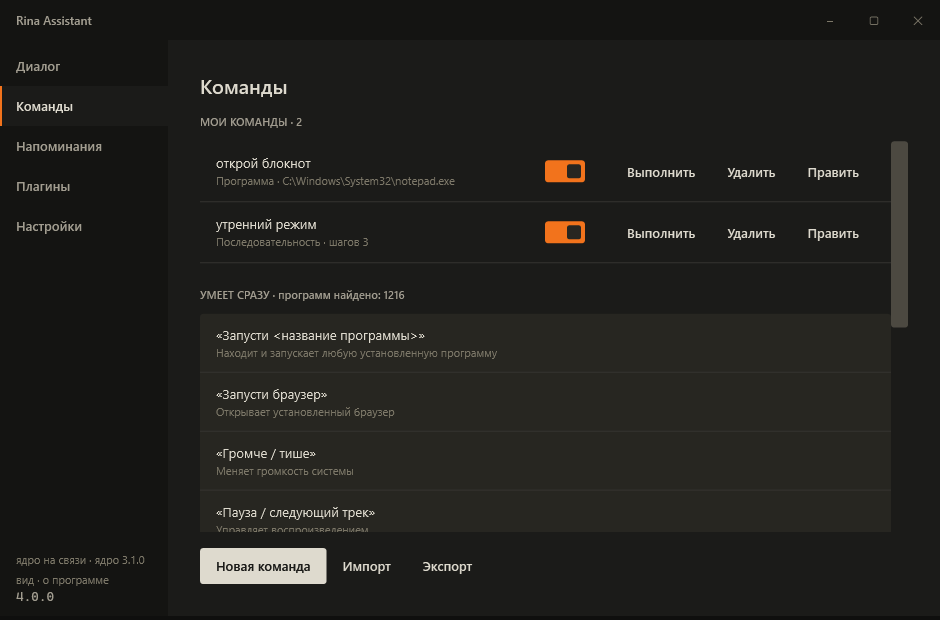
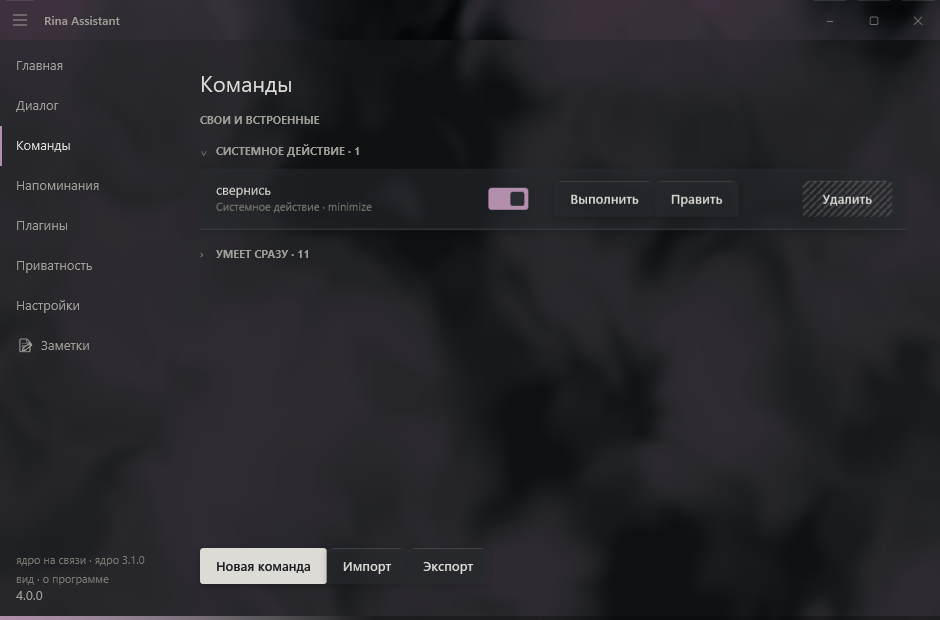
C04: README как продуктовая страница (без видео)
Первый экран перестроен под того, кто решает, стоит ли пробовать: фраза о
ценности, приватность рядом с ней, снимок главной, установка в пять минут
и три фразы, которые можно сказать сразу. Техническая глубина осталась —
она ниже, а не первой.

Видео не сделано: записать его я не могу, и делать вид, что пункт закрыт
целиком, не стану. В плане стоит «частично».

README успел прогнить, и это главное, что тут выяснилось. «Одиннадцать
системных действий» при шестнадцати, «две отделки» при трёх, «четыре
поверхности, семнадцать угроз» при шести и двадцати двух, «39 проверок»
при шестидесяти пяти. Снимки сняты 8 сентября — до переделки интерфейса,
то есть показывали программу, которой больше нет. Ничего из этого никто не
заметил, потому что никто и не смотрел.

Снимки пересняты из нынешней сборки, включая страницу приватности и
главную, которых на странице не было вовсе.

Числа, которые называет страница, теперь сверяются. Продуктовую страницу
читает тот, кто решает, попробовать ли; число в ней — та часть, которой
верят не проверяя, и ровно поэтому она гниёт. Сверяются отделки,
системные действия, виды шага, поверхности и угрозы, число проверок в
наборе (у самого набора и спрашивается) и наличие каждого снимка.

Сломано в обе стороны: README отстал от числа действий; в системе стало на
действие больше, а README не знает; снимок пропал.

Регресс: 65 проверок, 0 провалов.

diff --git a/tools/check_docs.py b/tools/check_docs.py
@@ -255,6 +255,89 @@ check("старых скриншотов в README нет",
       not re.search(r"docs/0\d-\w+\.png", readme),
       "| это интерфейс, которого больше не существует")
 
+# ---------------------------------------------------------------------------
+# The numbers the README quotes (`4.0b-C04`)
+# ---------------------------------------------------------------------------
+#
+# A product page is read by somebody deciding whether to try the thing, and
+# a number in it is the part they believe without checking. Which is exactly
+# how it rots: the code moves, the sentence stays, and the sentence is what
+# the reader takes away.
+#
+# It had rotted. "Eleven system actions" when there were sixteen, "two
+# finishes" when there were three, "four surfaces, seventeen threats" when
+# there were six and twenty-two, "39 checks" when there were sixty-five.
+# None of it was noticed by anybody, because nothing was looking.
+import json
+import subprocess
+
+print()
+print("=== числа, которые называет README ===")
+
+
+def quoted(word, said):
+    """Does the README say this number for this thing?"""
+    return said in readme
+
+
+with io.open(os.path.join(ROOT, "docs", "design", "tokens.json"),
+             encoding="utf-8") as handle:
+    finishes = len(json.load(handle)["finishes"])
+
+model = io.open(os.path.join(ROOT, "docs", "security", "THREAT-MODEL.md"),
+                encoding="utf-8").read()
+threats = len(re.findall(r"^### T-", model, re.MULTILINE))
+surfaces = len(re.findall(r"^## Поверхность", model, re.MULTILINE))
+
+sys.path.insert(0, ROOT)
+from voice.user_commands import COMMAND_TYPES, STEP_ONLY, SYSTEM_ACTIONS
+
+#: Numbers written out as words, because that is how a page for people
+#: writes them. A page that said "16 actions" would read like a table.
+WORDS = {
+    2: "Two", 3: "Three", 4: "Four", 5: "Five", 6: "Six", 7: "Seven",
+    11: "Eleven", 16: "Sixteen", 17: "seventeen", 22: "twenty-two",
+}
+
+check(f"отделок в README столько же, сколько в системе ({finishes})",
+      quoted("finishes", f"{WORDS.get(finishes, finishes)} finishes"),
+      f"| ждали «{WORDS.get(finishes, finishes)} finishes»")
+
+check(f"системных действий ({len(SYSTEM_ACTIONS)})",
+      quoted("actions", f"{WORDS.get(len(SYSTEM_ACTIONS))} actions"),
+      f"| ждали «{WORDS.get(len(SYSTEM_ACTIONS))} actions»")
+
+check(f"видов шага ({len(STEP_ONLY)})",
+      quoted("steps", f"{WORDS.get(len(STEP_ONLY), '').lower()} more exist"),
+      f"| ждали «{WORDS.get(len(STEP_ONLY), '').lower()} more exist»")
+
+check(f"поверхностей и угроз ({surfaces} и {threats})",
+      f"{WORDS.get(surfaces)} surfaces" in readme
+      and f"{WORDS.get(threats)} threats" in readme,
+      f"| ждали «{WORDS.get(surfaces)} surfaces, {WORDS.get(threats)} threats»")
+
+# The number of checks comes from the suite itself: asking it is the only
+# way to be sure, and the suite is what the sentence is about.
+try:
+    listed = subprocess.run(
+        [sys.executable, os.path.join(ROOT, "tools", "regress.py"), "--list"],
+        capture_output=True, text=True, encoding="utf-8", timeout=120).stdout
+    total = re.search(r"всего:\s*(\d+)", listed or "")
+    if total:
+        check(f"проверок в README столько же, сколько в наборе ({total.group(1)})",
+              f"# {total.group(1)} checks" in readme,
+              f"| ждали «# {total.group(1)} checks»")
+    else:
+        check("набор сказал, сколько в нём проверок", False, f"| {listed[-80:]}")
+except subprocess.TimeoutExpired:
+    check("набор ответил, сколько в нём проверок", False, "| не дождались")
+
+# Every screenshot the README points at exists. A picture that does not open
+# is a broken promise on the page that makes the first impression.
+missing = [name for name in re.findall(r'src="(docs/screens/[^"]+)"', readme)
+           if not os.path.exists(os.path.join(ROOT, name.replace("/", os.sep)))]
+check("все снимки на месте", missing == [], f"| нет: {missing}")
+
 print()
 print("ИТОГО ошибок:", fails)
 sys.exit(1 if fails else 0)

diff --git a/README.md b/README.md
@@ -14,26 +14,55 @@ A desktop voice assistant for Windows — launches your apps, keeps your timers,
 
 ---
 
-## About
+## Say it, and it happens
 
-**Rina Assistant** listens, understands what you asked for, and does it: opens the program you named even if you named it in the wrong alphabet, sets a timer, changes the volume, does the arithmetic, searches the web, or — if you enable it — answers the question with a language model running on your own machine.
+**Rina Assistant** listens, works out what you asked for, and does it: opens the
+program you named even if you named it in the wrong alphabet, sets a timer,
+changes the volume, does the arithmetic, searches the web, or — if you switch it
+on — answers with a language model running on your own machine.
 
-Everything runs locally by default. No account, no cloud service, no telemetry.
+**Everything runs on your computer.** No account, no cloud service, no
+telemetry. There is a page inside the program that lists every single thing it
+has remembered about you, and a button to make it forget any of it.
 
-Rina Assistant is developed as part of the **NeuroSync Foundry** ecosystem.
+<p align="center">
+  <img src="docs/screens/home.png" width="760"><br>
+  <sub>She is one shape when waiting, another when listening, another when
+  answering — the window says what is happening without a word for it.</sub>
+</p>
 
 ---
 
-## Screenshots
+## Try it in five minutes
+
+Requires **Windows**, **Python 3.10+** and **.NET 9**.
+
+```bash
+git clone https://github.com/Luna-coreX/RinaAssistant.git
+cd RinaAssistant
+pip install -r requirements.txt
+dotnet run --project shell/Rina.Shell
+```
+
+The shell starts the core itself — you never run it separately. On the first
+launch a short wizard asks which voice and which recognition you want and
+downloads only those.
+
+Then say — or type — **«открой блокнот»**, **«поставь таймер на 5 минут»**,
+**«сколько будет 17 на 23»**.
+
+---
+
+## What it looks like
 
 | | |
 |---|---|
-| <img src="docs/screens/dialog.png" width="420"> | <img src="docs/screens/commands.png" width="420"> |
-| **Dialogue** — the conversation, the input line, two modes | **Commands** — your own phrases, sequences, and what she can do already |
-| <img src="docs/screens/reminders.png" width="420"> | <img src="docs/screens/plugins.png" width="420"> |
-| **Reminders** — timers, alarms, reminders | **Plugins** — install, enable, and each plugin's own page |
-| <img src="docs/screens/settings.png" width="420"> | |
-| **Settings** — the core sends the meaning, the shell decides the look | |
+| <img src="docs/screens/commands.png" width="420"> | <img src="docs/screens/privacy.png" width="420"> |
+| **Commands** — your own, grouped by kind; the built-in ones folded away | **What Rina knows about me** — every stored thing, and a way to forget it |
+| <img src="docs/screens/dialog.png" width="420"> | <img src="docs/screens/reminders.png" width="420"> |
+| **Dialogue** — the conversation, with who said what and when | **Reminders** — timers, alarms, and reminders tied to a program |
+| <img src="docs/screens/plugins.png" width="420"> | <img src="docs/screens/settings.png" width="420"> |
+| **Plugins** — install, switch on, each with a page of its own | **Settings** — the core sends the meaning, the shell decides the look |
 
 ---
 
@@ -73,9 +102,25 @@ Speech synthesis and recognition are pluggable — pick what suits the machine.
 
 The models live in the core, the microphone and the speaker in the shell — the sound travels between them over a channel of its own, so a second of speech never queues behind a button press.
 
-### Commands and sequences
+### Commands, assembled as a graph
 
-Six kinds of user commands — launch an app, open a folder, open a website, say something, run a system action, or run a **sequence** that chains several steps with pauses. Built from an editor, not typed as a string. Commands can be exported and imported between machines; anything imported arrives **disabled**, so nothing runs before you have looked at it.
+A command is a **graph**: steps stand as nodes with wires between them, and a
+simple command is a graph of one node. Six kinds of thing can happen — launch an
+app, open a folder, open a website, say something, run a system action, run a
+sequence — and seven more exist only as steps inside one: wait, repeat N times,
+repeat while, if/else, stop the scenario, call another command, remember a
+value.
+
+Conditions can ask about the world as well as the clock: which program is in
+front, whether one is running, whether a file exists, whether Ollama answers,
+the time, the day, a value you set earlier in the same run.
+
+Nodes are dragged onto the ports between other nodes, and «Проверить» runs the
+graph without saving it — lighting each step green as it goes and red where it
+stops.
+
+Commands can be exported and imported between machines; anything imported
+arrives **disabled**, so nothing runs before you have looked at it.
 
 ### Reminders
 
@@ -83,7 +128,8 @@ Timers, alarms and reminders in plain language — "поставь таймер 
 
 ### System control
 
-Eleven actions: volume up/down/mute, media next/previous/play-pause, lock, screenshot, sleep, restart, shutdown. Destructive ones always ask first, and the question shows **what will happen** rather than the action's name — a single misheard phrase can never power off the machine.
+Sixteen actions: volume up/down/mute, media next/previous/play-pause, lock,
+screenshot, sleep, restart, shutdown, and the ones that move Rina's own window. Destructive ones always ask first, and the question shows **what will happen** rather than the action's name — a single misheard phrase can never power off the machine.
 
 ### Answers
 
@@ -101,7 +147,7 @@ See [`docs/plugins/WRITING-PLUGINS.md`](docs/plugins/WRITING-PLUGINS.md).
 
 ### Interface
 
-Two finishes (silver and black) with a choice of accent, five interface languages (Русский, English, Українська, Español, Deutsch), a floating command bar, tray integration, autostart, global hotkeys, and a full history with export.
+Three finishes (silver, black and graphite) with a choice of accent, five interface languages (Русский, English, Українська, Español, Deutsch), a floating command bar, tray integration, autostart, global hotkeys, and a full history with export.
 
 The design is a document, not a mood: [`docs/design/SYSTEM.md`](docs/design/SYSTEM.md). Every colour pair is checked for contrast, and the drawn window is compared with the tokens pixel by pixel.
 
@@ -162,20 +208,18 @@ is cheaper than reconstructing it from the log.
 
 ---
 
-## Installation
+## Installation, in more detail
 
-Requires **Windows**, **Python 3.10+** and **.NET 9** for the shell.
+The short version is at the top. What is worth knowing beyond it:
 
-```bash
-git clone https://github.com/Luna-coreX/RinaAssistant.git
-cd RinaAssistant
-pip install -r requirements.txt
-dotnet run --project shell/Rina.Shell
-```
+The shell takes the Python from the project's environment if there is one, and
+only then whatever is in `PATH`. The voices and the recognition models are
+installed **in the environment**, so a core started with "just python" comes up
+and honestly reports that it has no engines.
 
-The shell starts the core itself — you do not run it separately. It takes the Python from the project's environment if there is one, and only then whatever is in `PATH`: the voices and the recognition models are installed **in the environment**, and a core started with "just python" comes up and honestly reports that it has no engines.
-
-Voice engines are optional and listed in `requirements.txt` — install the ones you intend to use. Some (Vosk, Piper) need a model file downloaded separately.
+Voice engines are optional and listed in `requirements.txt`. The first-run
+wizard installs the ones you pick; you can also install them by hand. Some
+(Vosk, Piper) need a model file, which the wizard downloads.
 
 ### Optional: local AI answers
 
@@ -192,7 +236,7 @@ Rina talks to `http://localhost:11434` by default and warns you plainly if you p
 ## Development
 
 ```bash
-python tools/regress.py          # 39 checks, about two minutes
+python tools/regress.py          # 65 checks, about four minutes
 python tools/regress.py --list   # what they are
 ```
 
@@ -216,7 +260,10 @@ Full plan: [`docs/ROADMAP.md`](docs/ROADMAP.md).
 
 ## Security
 
-What we defend against, from whom, and with what — [`docs/security/THREAT-MODEL.md`](docs/security/THREAT-MODEL.md). Four surfaces, seventeen threats, and for each of them the **residual risk** written down, because a defence without one has stopped being thought about.
+What we defend against, from whom, and with what — [`docs/security/THREAT-MODEL.md`](docs/security/THREAT-MODEL.md). Six surfaces, twenty-two threats, and for each of them the **residual risk**
+written down, because a defence without one has stopped being thought about.
+The sweep that walks that document rather than a list somebody maintains is
+`tools/test_security.py`.
 
 Reporting a vulnerability: [`SECURITY.md`](SECURITY.md).
 
